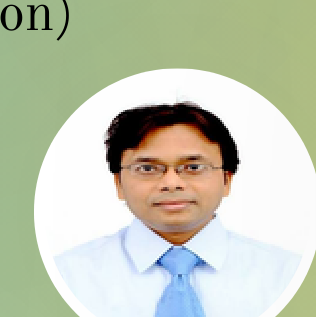
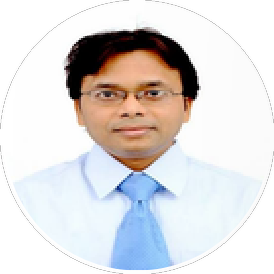
Updated website

diff --git a/src/components/Committee.jsx b/src/components/Committee.jsx
@@ -30,11 +30,13 @@ export default function Committee() {
             
             {/* Chief Patron */}
             <div className="bg-gradient-to-b from-slate-50 to-blue-50/30 border border-blue-200/80 rounded-2xl p-6 text-center shadow-sm hover:shadow-lg transition-all">
-              <img
-                src={COMMITTEE.chiefPatron.image}
-                alt={COMMITTEE.chiefPatron.name}
-                className="w-28 h-28 mx-auto rounded-full object-cover ring-4 ring-blue-500/20 shadow-md mb-4"
-              />
+              <div className="w-28 h-28 mx-auto mb-4 rounded-full bg-slate-100 p-0.5 ring-4 ring-blue-500/20 shadow-md">
+                <img
+                  src={COMMITTEE.chiefPatron.image}
+                  alt={COMMITTEE.chiefPatron.name}
+                  className="w-full h-full rounded-full object-cover"
+                />
+              </div>
               <span className="inline-block bg-blue-700 text-white text-xs font-extrabold px-3 py-1 rounded-full mb-2 uppercase tracking-wide">
                 {COMMITTEE.chiefPatron.role}
               </span>
@@ -44,11 +46,13 @@ export default function Committee() {
 
             {/* Chief Co-Patron */}
             <div className="bg-gradient-to-b from-slate-50 to-blue-50/30 border border-blue-200/80 rounded-2xl p-6 text-center shadow-sm hover:shadow-lg transition-all">
-              <img
-                src={COMMITTEE.chiefCoPatron.image}
-                alt={COMMITTEE.chiefCoPatron.name}
-                className="w-28 h-28 mx-auto rounded-full object-cover ring-4 ring-blue-500/20 shadow-md mb-4"
-              />
+              <div className="w-28 h-28 mx-auto mb-4 rounded-full bg-slate-100 p-0.5 ring-4 ring-indigo-500/20 shadow-md">
+                <img
+                  src={COMMITTEE.chiefCoPatron.image}
+                  alt={COMMITTEE.chiefCoPatron.name}
+                  className="w-full h-full rounded-full object-cover"
+                />
+              </div>
               <span className="inline-block bg-indigo-700 text-white text-xs font-extrabold px-3 py-1 rounded-full mb-2 uppercase tracking-wide">
                 {COMMITTEE.chiefCoPatron.role}
               </span>
@@ -58,11 +62,13 @@ export default function Committee() {
 
             {/* Patron */}
             <div className="bg-gradient-to-b from-slate-50 to-blue-50/30 border border-blue-200/80 rounded-2xl p-6 text-center shadow-sm hover:shadow-lg transition-all">
-              <img
-                src={COMMITTEE.patron.image}
-                alt={COMMITTEE.patron.name}
-                className="w-28 h-28 mx-auto rounded-full object-cover ring-4 ring-blue-500/20 shadow-md mb-4"
-              />
+              <div className="w-28 h-28 mx-auto mb-4 rounded-full bg-slate-100 p-0.5 ring-4 ring-slate-400/20 shadow-md">
+                <img
+                  src={COMMITTEE.patron.image}
+                  alt={COMMITTEE.patron.name}
+                  className="w-full h-full rounded-full object-cover"
+                />
+              </div>
               <span className="inline-block bg-slate-800 text-white text-xs font-extrabold px-3 py-1 rounded-full mb-2 uppercase tracking-wide">
                 {COMMITTEE.patron.role}
               </span>
@@ -83,11 +89,13 @@ export default function Committee() {
             {/* Convenors */}
             {COMMITTEE.convenors.map((member, idx) => (
               <div key={idx} className="bg-white border border-slate-200 rounded-xl p-5 text-center shadow-sm hover:shadow-md transition-all">
-                <img
-                  src={member.image}
-                  alt={member.name}
-                  className="w-20 h-20 mx-auto rounded-full object-cover ring-2 ring-amber-400 shadow mb-3"
-                />
+                <div className="w-20 h-20 mx-auto mb-3 rounded-full bg-slate-100 p-0.5 ring-2 ring-amber-400 shadow">
+                  <img
+                    src={member.image}
+                    alt={member.name}
+                    className="w-full h-full rounded-full object-cover"
+                  />
+                </div>
                 <span className="inline-block bg-amber-100 text-amber-800 text-[11px] font-bold px-2.5 py-0.5 rounded mb-1">
                   {member.role}
                 </span>
@@ -99,11 +107,13 @@ export default function Committee() {
             {/* Secretaries */}
             {COMMITTEE.organizingSecretaries.map((member, idx) => (
               <div key={idx} className="bg-white border border-slate-200 rounded-xl p-5 text-center shadow-sm hover:shadow-md transition-all">
-                <img
-                  src={member.image}
-                  alt={member.name}
-                  className="w-20 h-20 mx-auto rounded-full object-cover ring-2 ring-blue-400 shadow mb-3"
-                />
+                <div className="w-20 h-20 mx-auto mb-3 rounded-full bg-slate-100 p-0.5 ring-2 ring-blue-400 shadow">
+                  <img
+                    src={member.image}
+                    alt={member.name}
+                    className="w-full h-full rounded-full object-cover"
+                  />
+                </div>
                 <span className="inline-block bg-blue-100 text-blue-800 text-[11px] font-bold px-2.5 py-0.5 rounded mb-1">
                   {member.role}
                 </span>

diff --git a/src/data/workshopData.js b/src/data/workshopData.js
@@ -108,7 +108,7 @@ export const SPEAKERS = [
   { name: "Dr. Jichil Majhi", designation: "Assistant Professor, DMME", institution: "NIT JSR", image: "/assets/speaker_jichil_majhi.png" },
   { name: "Dr. Manish Roy", designation: "Professor of Practice, DMME", institution: "NIT JSR", image: "/assets/speaker_manish_roy.png" },
   { name: "Dr. Indranil Chattoraj", designation: "Ex-Director", institution: "CSIR-NML Jamshedpur", image: "/assets/speaker_indranil_chattoraj.png" },
-  { name: "Dr. Ranu Kumari", designation: "Assistant Professor, DMME", institution: "NIT JSR", image: "/assets/speaker_ranu_kumari.png" },
+  { name: "Dr. Renu Kumari", designation: "Assistant Professor, DMME", institution: "NIT JSR", image: "/assets/speaker_renu_kumari.png" },
   { name: "Dr. Manashi Adhikari", designation: "Head, Scientific Service", institution: "Tata Steel, Jamshedpur", image: "/assets/speaker_manashi_adhikari.png" },
   { name: "Dr. Aravind Gali", designation: "Assistant Professor, DMME", institution: "NIT JSR", image: "/assets/speaker_aravind_gali.png" },
   { name: "Dr. Poulomi Maji", designation: "Assistant Professor, DMME", institution: "NIT JSR", image: "/assets/speaker_poulomi_maji.png" },

diff --git a/src/components/Speakers.jsx b/src/components/Speakers.jsx
@@ -83,11 +83,11 @@ export default function Speakers() {
               >
                 {/* Photo Avatar */}
                 <div className="relative mb-4">
-                  <div className="w-24 h-24 rounded-full overflow-hidden ring-4 ring-blue-50 shadow-md group-hover:ring-blue-500/40 transition-all">
+                  <div className="w-24 h-24 rounded-full bg-slate-100 p-0.5 ring-4 ring-blue-100 group-hover:ring-blue-500/40 shadow-md transition-all">
                     <img
                       src={speaker.image}
                       alt={speaker.name}
-                      className="w-full h-full object-cover group-hover:scale-110 transition-transform duration-300"
+                      className="w-full h-full rounded-full object-cover group-hover:scale-105 transition-transform duration-300"
                     />
                   </div>
                   <span className="absolute bottom-0 right-0 bg-blue-600 text-white p-1 rounded-full shadow">
